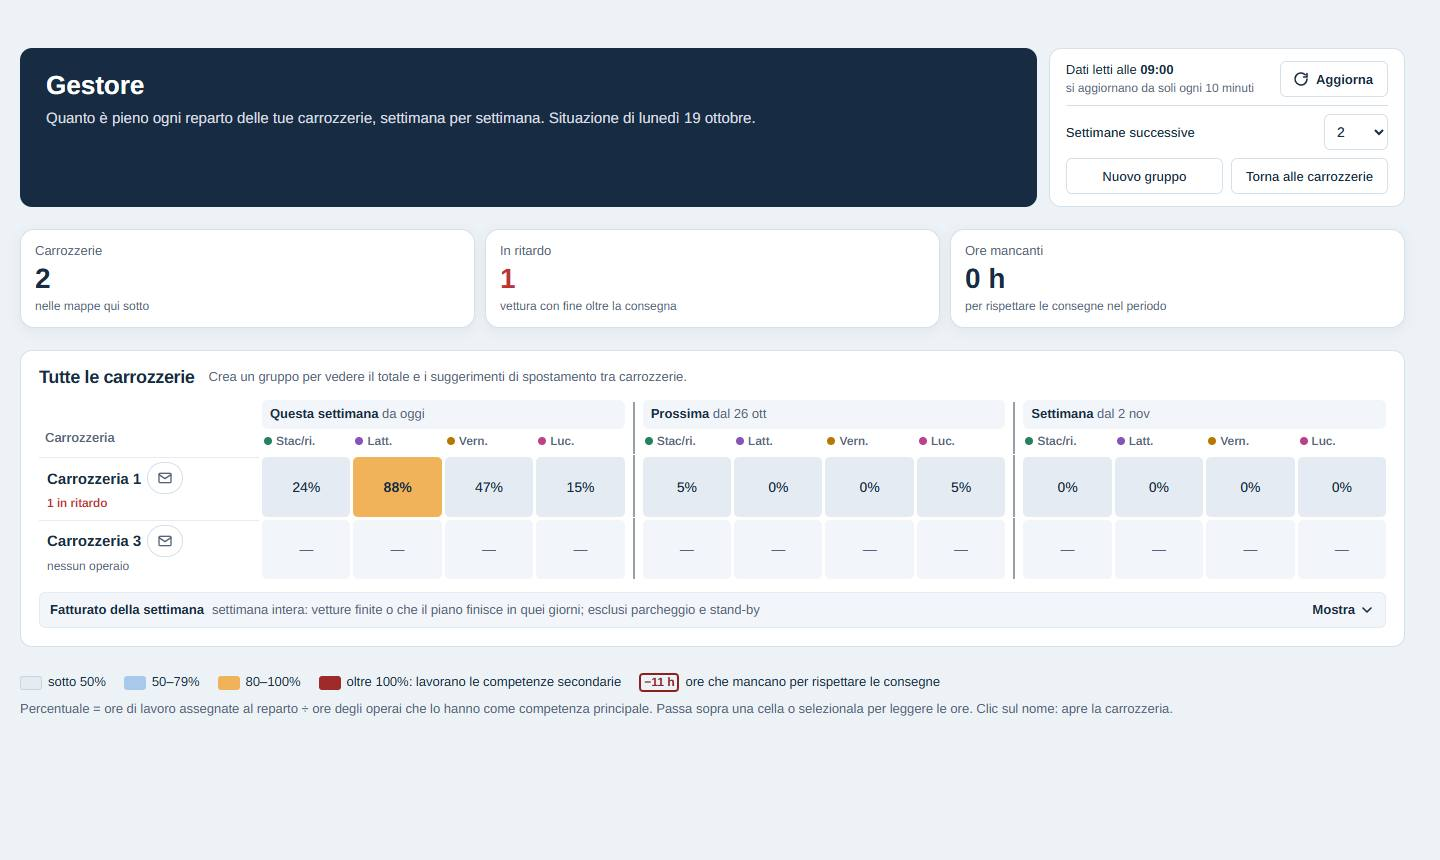
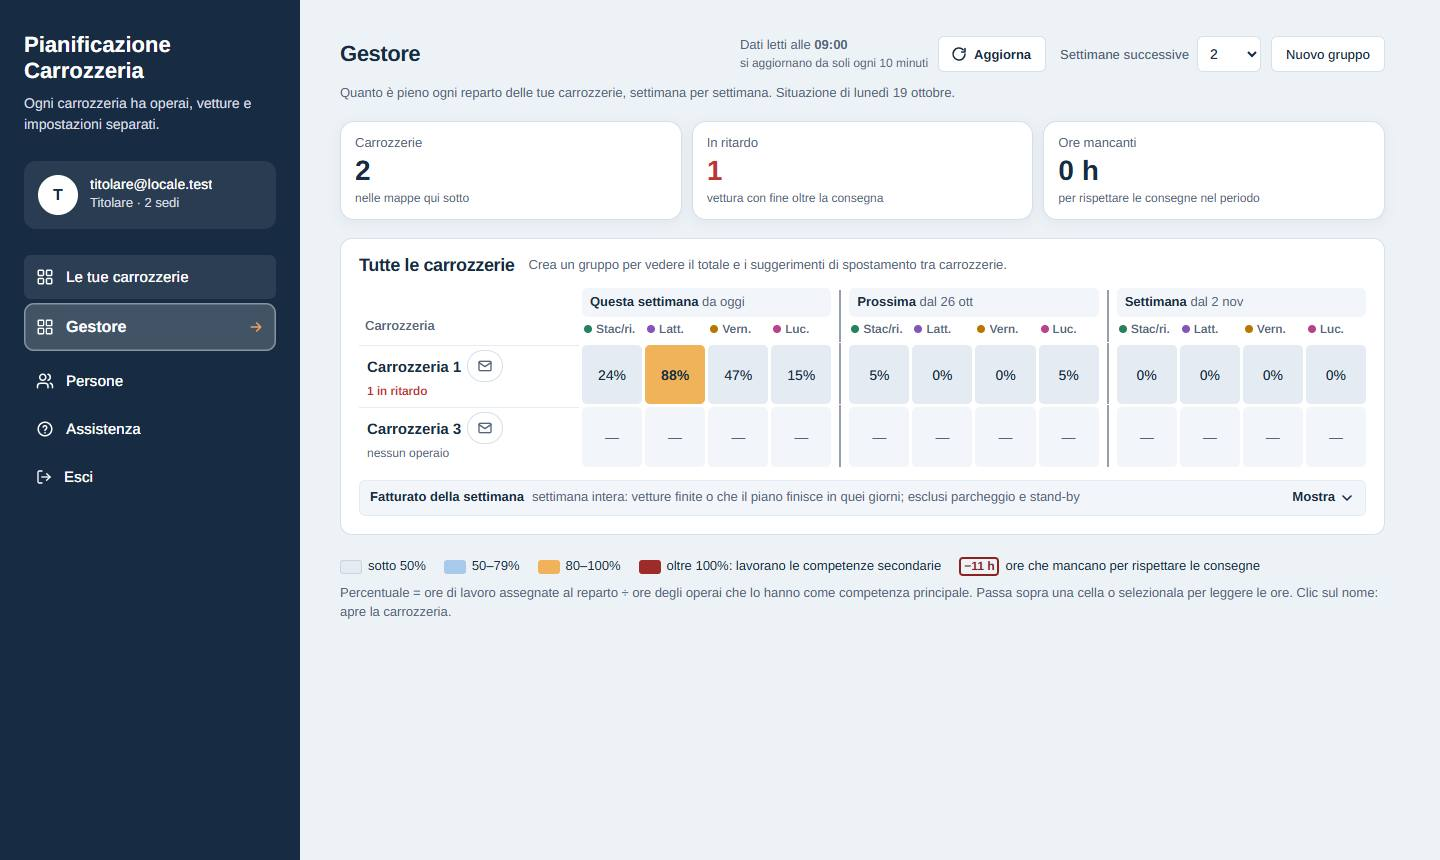
Planner 0.47.0

diff --git a/planner/accesso.js b/planner/accesso.js
@@ -212,6 +212,7 @@ const Accesso = (() => {
 
   // icone della colonna laterale e dei gruppi (strumenti dal 2026-11-05, colonna dal 2026-11-11)
   const ICONA = {
+    carrozzerie: '<svg width="18" height="18" viewBox="0 0 24 24" fill="none" stroke="currentColor" stroke-width="2" stroke-linecap="round" stroke-linejoin="round" aria-hidden="true"><rect x="3" y="3" width="7" height="7" rx="1.5"/><rect x="14" y="3" width="7" height="7" rx="1.5"/><rect x="3" y="14" width="7" height="7" rx="1.5"/><rect x="14" y="14" width="7" height="7" rx="1.5"/></svg>',
     gestore: '<svg width="18" height="18" viewBox="0 0 24 24" fill="none" stroke="currentColor" stroke-width="2" stroke-linecap="round" stroke-linejoin="round" aria-hidden="true"><rect x="3" y="3" width="7" height="7" rx="1"/><rect x="14" y="3" width="7" height="7" rx="1"/><rect x="3" y="14" width="7" height="7" rx="1"/><rect x="14" y="14" width="7" height="7" rx="1"/></svg>',
     persone: '<svg width="18" height="18" viewBox="0 0 24 24" fill="none" stroke="currentColor" stroke-width="2" stroke-linecap="round" stroke-linejoin="round" aria-hidden="true"><path d="M16 21v-2a4 4 0 0 0-4-4H6a4 4 0 0 0-4 4v2"/><circle cx="9" cy="7" r="4"/><path d="M22 21v-2a4 4 0 0 0-3-3.87"/><path d="M16 3.13a4 4 0 0 1 0 7.75"/></svg>',
     cestino: '<svg width="18" height="18" viewBox="0 0 24 24" fill="none" stroke="currentColor" stroke-width="2" stroke-linecap="round" stroke-linejoin="round" aria-hidden="true"><path d="M3 6h18M8 6V4h8v2M6 6l1 14h10l1-14"/></svg>',
@@ -240,10 +241,12 @@ const Accesso = (() => {
   // logo ZenCar (assets/zencar-logo.svg, senza metadati e con i numeri arrotondati), in alto a destra nella pagina delle carrozzerie
   const LOGO = '<svg xmlns="http://www.w3.org/2000/svg" viewBox="0 0 407 110" aria-hidden="true" focusable="false"><g transform="scale(0.9167)"><rect x="10" y="10" width="46" height="46" rx="13" fill="#4C5BFF"/><rect x="64" y="10" width="46" height="46" rx="13" fill="#4C5BFF"/><rect x="10" y="64" width="46" height="46" rx="13" fill="#4C5BFF"/><circle cx="87" cy="87" r="21" fill="none" stroke="#0B0D12" stroke-width="8"/><circle cx="87" cy="87" r="5" fill="#0B0D12"/></g><path d="M136.3 84.8V75.4L165.9 34.7H137.5V25.2H179.2V34.6L149.3 75.3H180.2V84.8Z M203.6 85.8Q196.8 85.8 191.9 82.9Q186.9 80 184.2 74.7Q181.5 69.4 181.5 62.4Q181.5 55.3 184.2 50Q186.9 44.8 191.8 41.9Q196.7 39 203.3 39Q209.7 39 214.5 41.8Q219.3 44.7 221.9 50Q224.6 55.4 224.6 63V65.4H192.7Q193 71.3 195.9 74.3Q198.8 77.3 203.6 77.3Q210.9 77.3 213 71L224 71.7Q222.1 78.3 216.7 82Q211.3 85.8 203.6 85.8ZM192.7 58.2H213.5Q213 52.7 210.3 50.1Q207.6 47.4 203.3 47.4Q198.9 47.4 196.2 50.2Q193.4 53 192.7 58.2Z M229.6 84.8V40H239.3L239.6 47.6Q241.4 43 245 41Q248.6 39 253 39Q260.4 39 264.4 43.7Q268.3 48.4 268.3 56V84.8H257.6V59.5Q257.6 53.7 255.8 50.7Q254.1 47.7 249.8 47.7Q245.4 47.7 242.9 50.7Q240.3 53.7 240.3 59.5V84.8Z M301.2 86.2Q293.1 86.2 286.9 82.4Q280.7 78.7 277.1 71.8Q273.6 64.8 273.6 55.1Q273.6 45.5 277.1 38.5Q280.5 31.5 286.7 27.7Q292.9 23.8 301.3 23.8Q312.8 23.8 319.1 29.5Q325.4 35.2 327.3 45.3L315.9 45.9Q314.8 40 311.2 36.7Q307.5 33.3 301.3 33.3Q293.8 33.3 289.3 39.2Q284.9 45.1 284.9 55.1Q284.9 65.2 289.4 70.9Q293.9 76.7 301.2 76.7Q307.9 76.7 311.5 73Q315.2 69.4 316.2 63L327.6 63.6Q325.9 74.1 319.2 80.1Q312.5 86.2 301.2 86.2Z M345.5 85.8Q338.5 85.8 334.2 82.6Q329.9 79.4 329.9 73.6Q329.9 67.8 333.5 64.5Q337.1 61.2 344.5 59.8L359.4 56.8Q359.4 47.3 350.7 47.3Q346.9 47.3 344.6 49.1Q342.3 50.9 341.6 54.2L330.6 53.7Q332 46.7 337.2 42.8Q342.4 39 350.7 39Q360.3 39 365.2 43.8Q370.1 48.6 370.1 57.6V73.9Q370.1 75.7 370.8 76.3Q371.4 77 372.6 77H374.1V84.8Q372.6 85.2 370.1 85.2Q366.5 85.2 364 83.6Q361.5 82.1 360.8 78V77.9Q359.1 81.5 355 83.6Q351 85.8 345.5 85.8ZM347.7 78Q353.1 78 356.2 74.9Q359.4 71.8 359.4 66.7V64.2L347.8 66.5Q344.2 67.3 342.6 68.7Q341.1 70.2 341.1 72.6Q341.1 78 347.7 78Z M377 84.8V40H387.1L387.3 48.7Q388.7 44.2 391.3 42.1Q393.9 40 398.1 40H402.2V49.2H398Q392.9 49.2 390.3 51.5Q387.8 53.8 387.8 58.9V84.8Z" fill="#0B0D12"/></svg>';
   /** Colonna blu notte a sinistra (proposta C scelta dal titolare il 2026-11-11): chi è entrato, strumenti, Esci. */
-  function laterale(gone) {
+  // attiva (2026-11-18): 'gestore' quando la colonna accompagna il Gestore: «Gestore» evidenziato e, in cima, «Le tue carrozzerie»
+  function laterale(gone, attiva = '') {
     const email = S.utente.email || '', chi = chiSono(), b = [];
     // il Gestore (proposta I, 2026-11-12): prima voce del menu, più grande e su una fascia chiara; le carrozzerie restano in primo piano
-    const gestore = vedeGestore() ? `<button type="button" class="lges" data-gestore="1">${ICONA.gestore}<b>Gestore</b>
+    if (attiva === 'gestore') b.push(`<button type="button" class="lstr" data-gs-chiudi="1">${ICONA.carrozzerie}<span class="lstr-t">Le tue carrozzerie</span></button>`);
+    const gestore = vedeGestore() ? `<button type="button" class="lges${attiva === 'gestore' ? ' on' : ''}" data-gestore="1"${attiva === 'gestore' ? ' aria-current="page"' : ''}>${ICONA.gestore}<b>Gestore</b>
       <svg class="lges-f" width="16" height="16" viewBox="0 0 24 24" fill="none" stroke="currentColor" stroke-width="2.4" stroke-linecap="round" stroke-linejoin="round" aria-hidden="true"><path d="M5 12h14M13 6l6 6-6 6"/></svg></button>` : '';
     if (sediMie().length) b.push(`<button type="button" class="lstr" data-persone="1">${ICONA.persone}<span class="lstr-t">Persone</span></button>`);
     if (gone.length) b.push(`<button type="button" class="lstr" data-eliminate="1" aria-expanded="${!!S.eliminate}">${ICONA.cestino}<span class="lstr-t">Carrozzerie eliminate (${gone.length})</span></button>`);
@@ -254,7 +257,7 @@ const Accesso = (() => {
       <div class="lside-tit"><h1>Pianificazione Carrozzeria</h1><p>Ogni carrozzeria ha operai, vetture e impostazioni separati.</p></div>
       <div class="lside-chi" title="${esc(email)}"><span class="conto-ini grande" aria-hidden="true">${esc((S.nome || email).charAt(0).toUpperCase())}</span>
         <span><b${S.nome ? '' : ' class="email"'}>${esc(S.nome || email)}</b><span>${esc(chi.ruolo)} · ${esc(chi.dove)}</span></span></div>
-      <nav class="lside-nav" aria-label="Strumenti">${gestore}${b.join('')}</nav></aside>`;
+      <nav class="lside-nav" aria-label="Strumenti">${attiva === 'gestore' ? b.shift() : ''}${gestore}${b.join('')}</nav></aside>`;
   }
 
   /* ---------------------------------------------- disposizione (2026-11-11): l'utente ordina le carrozzerie trascinandole e le
@@ -598,6 +601,8 @@ const Accesso = (() => {
 
   /* ---------------------------------------------- gestore: cruscotto di tutte le carrozzerie (pagina preparata dal server) */
   /** tranquillo: aggiornamento dei dati (tasto «Aggiorna» o ogni 10 minuti) senza spostare il fuoco né la posizione. */
+  // cornice della pagina delle carrozzerie (2026-11-18, proposta 7): colonna a sinistra, Gestore a destra
+  const corniceGestore = html => `<div class="lpag">${laterale(S.voci.filter(s => s.eliminata_il && titolareDi(s)), 'gestore')}<main class="lmain gs-main">${html}</main></div>`;
   async function apriGestore(extra = {}, tranquillo = false) {
     if (tranquillo && gestoreInCorso) return;
     let n = 2; try { n = +localStorage.getItem('planning-gestore-settimane') || 2; } catch (e) { }
@@ -607,17 +612,17 @@ const Accesso = (() => {
       prima.setAttribute('aria-busy', 'true');
       // il tasto «Aggiorna» mostra che la lettura è in corso
       if (agg) { agg.disabled = true; agg.classList.add('in-corso'); agg.lastElementChild.textContent = 'Aggiorno…'; }
-    } else b.innerHTML = '<div class="lcard gestore"><div class="lhead"><h1>Gestore</h1><p>Calcolo della saturazione di tutte le carrozzerie…</p></div></div>';
+    } else b.innerHTML = corniceGestore('<div class="lcard gestore"><div class="gs-head lbar"><h2 class="ltit">Gestore</h2></div><p class="lnote">Calcolo della saturazione di tutte le carrozzerie…</p></div>');
     try {
       // ora: solo l'orologio fisso delle prove (il server la accetta solo in locale, con CONSENTI_ORA_FINTA)
       // larghezza: solo per dividere le settimane in fasce che entrano nella pagina
-      const r = await chiamaFunzione('gestore', Object.assign({ settimane: n, larghezza: (larghezzaGestore = b.clientWidth), ora: window.__ORA_FINTA || null }, extra));
+      const r = await chiamaFunzione('gestore', Object.assign({ settimane: n, larghezza: (larghezzaGestore = ((b.querySelector('.gs-main') || b).clientWidth - 80)), ora: window.__ORA_FINTA || null }, extra));
       if (n0 !== richiestaGestore || !b.isConnected) return; // è partita una richiesta più recente: vale quella
       const su = b.scrollTop, fuocoAgg = agg && (document.activeElement === agg || document.activeElement === document.body);
       nascondiInfo();
-      b.innerHTML = r.html; mostraAperti(); lettoGestore = Date.now(); ascoltaVersioni();
+      b.innerHTML = corniceGestore(r.html); mostraAperti(); lettoGestore = Date.now(); ascoltaVersioni();
       if (tranquillo) { b.scrollTop = su; const x = b.querySelector('[data-gs-aggiorna]'); if (x && (fuocoAgg || document.activeElement === document.body)) x.focus({ preventScroll: true }); }
-      else { const f = b.querySelector('.gs-form input') || b.querySelector('.gs-head h1'); if (f) f.focus({ preventScroll: true }); } // all'apertura il cursore va sul titolo, non su un campo (2026-11-05)
+      else { const f = b.querySelector('.gs-form input') || b.querySelector('.gs-head .ltit'); if (f) f.focus({ preventScroll: true }); } // all'apertura il cursore va sul titolo, non su un campo (2026-11-05)
     } catch (e) {
       if (n0 !== richiestaGestore) return;
       // aggiornamento non riuscito: resta la pagina di prima, si riprova al prossimo giro

diff --git a/planner/planning.css b/planner/planning.css
@@ -1579,3 +1579,20 @@ input[type=checkbox]:not(.sw):checked{background:var(--surface);border:2px solid
 input[type=checkbox]:not(.sw):checked::before{border-color:var(--ink);opacity:1}
 input[type=checkbox]:not(.sw):hover{border-color:var(--ink)}
 .fopt input,.mecok input,.nfopt input,input[type=radio]{accent-color:var(--navy)}
+/* Importa (2026-11-18, proposta 9): caricamento largo in alto (testo a sinistra, pulsanti a destra), sotto lettura e calcolo delle ore */
+.imp{grid-template-columns:minmax(0,1fr)}
+.imp>.drop{grid-template-columns:minmax(0,1fr) auto auto;justify-items:start;align-items:center;text-align:left;column-gap:10px;row-gap:4px;padding:22px 24px}
+.imp>.drop h3,.imp>.drop p{grid-column:1}
+.imp>.drop p{max-width:70ch}
+.imp>.drop [data-a=impmanual]{grid-column:2;grid-row:1/3}
+.imp>.drop [data-a=imppick]{grid-column:3;grid-row:1/3}
+.imp>.drop p.small{grid-column:1/-1}
+.imp-giu{display:grid;grid-template-columns:minmax(0,1fr) minmax(300px,420px);gap:16px;align-items:start}
+@media (max-width:900px){ .imp-giu{grid-template-columns:1fr} }
+@media (max-width:640px){ .imp>.drop{grid-template-columns:1fr 1fr} .imp>.drop h3,.imp>.drop p{grid-column:1/-1} .imp>.drop [data-a=impmanual]{grid-column:1;grid-row:3} .imp>.drop [data-a=imppick]{grid-column:2;grid-row:3} .imp>.drop p.small{grid-row:4} .imp>.drop .btn{width:100%;margin-top:8px} }
+/* «Applica coefficienti» spento (2026-11-18): le ore vendute restano al loro posto, invisibili, il testo sotto non si sposta */
+.cv-vg.spento{visibility:hidden}
+/* «Applica coefficienti» torna interruttore (2026-11-18): la regola delle caselle della 0.46.1 lo rendeva una casella
+   quadrata senza spunta visibile; acceso in blu notte come gli altri interruttori */
+.cv-sw input[type=checkbox]{width:34px;height:20px;border:0;border-radius:999px;background:var(--line)}
+.cv-sw input[type=checkbox]:checked{background:var(--navy);border:0}

diff --git a/planner/accesso.css b/planner/accesso.css
@@ -704,3 +704,15 @@ body.vista-tabellone > header.top, body.vista-tabellone > #main { display: none;
 #dlgAssist .as-arg input { accent-color: var(--navy); }
 @media (max-width: 640px) { #dlgAssist .as-arg, #dlgAssist .as-due { grid-template-columns: 1fr; } }
 #dlgAssist .as-mail { color: var(--ink); font-weight: 600; user-select: all; }
+/* Gestore nella cornice delle carrozzerie (2026-11-18, proposta 7): intestazione come «Le tue carrozzerie», controlli in riga */
+#landing .lmain.gs-main { max-width: none; }
+#landing .gs-main .lcard.gestore { width: 100%; padding: 0; background: transparent; border: 0; box-shadow: none; display: grid; gap: 18px; }
+#landing .gs-head.lbar { display: flex; grid-template-columns: none; align-items: center; }
+#landing .gs-head .ltit:focus { outline: none; }
+#landing .gs-ctl.lbar-az { display: flex; flex-wrap: wrap; align-items: center; gap: 10px; padding: 0; border: 0; background: transparent; }
+#landing .gs-ctl.lbar-az .gs-agg { grid-column: auto; padding: 0 4px 0 0; border: 0; gap: 10px; }
+#landing .gs-ctl.lbar-az label { grid-column: auto; gap: 8px; }
+#landing .gs-sub { margin: -6px 0 0; }
+#landing .lges.on { background: #ffffff30; box-shadow: inset 0 0 0 1.5px #ffffff60; }
+#landing.vgestore { display: block; padding: 0; }
+#landing.vgestore #conto { display: none; }
